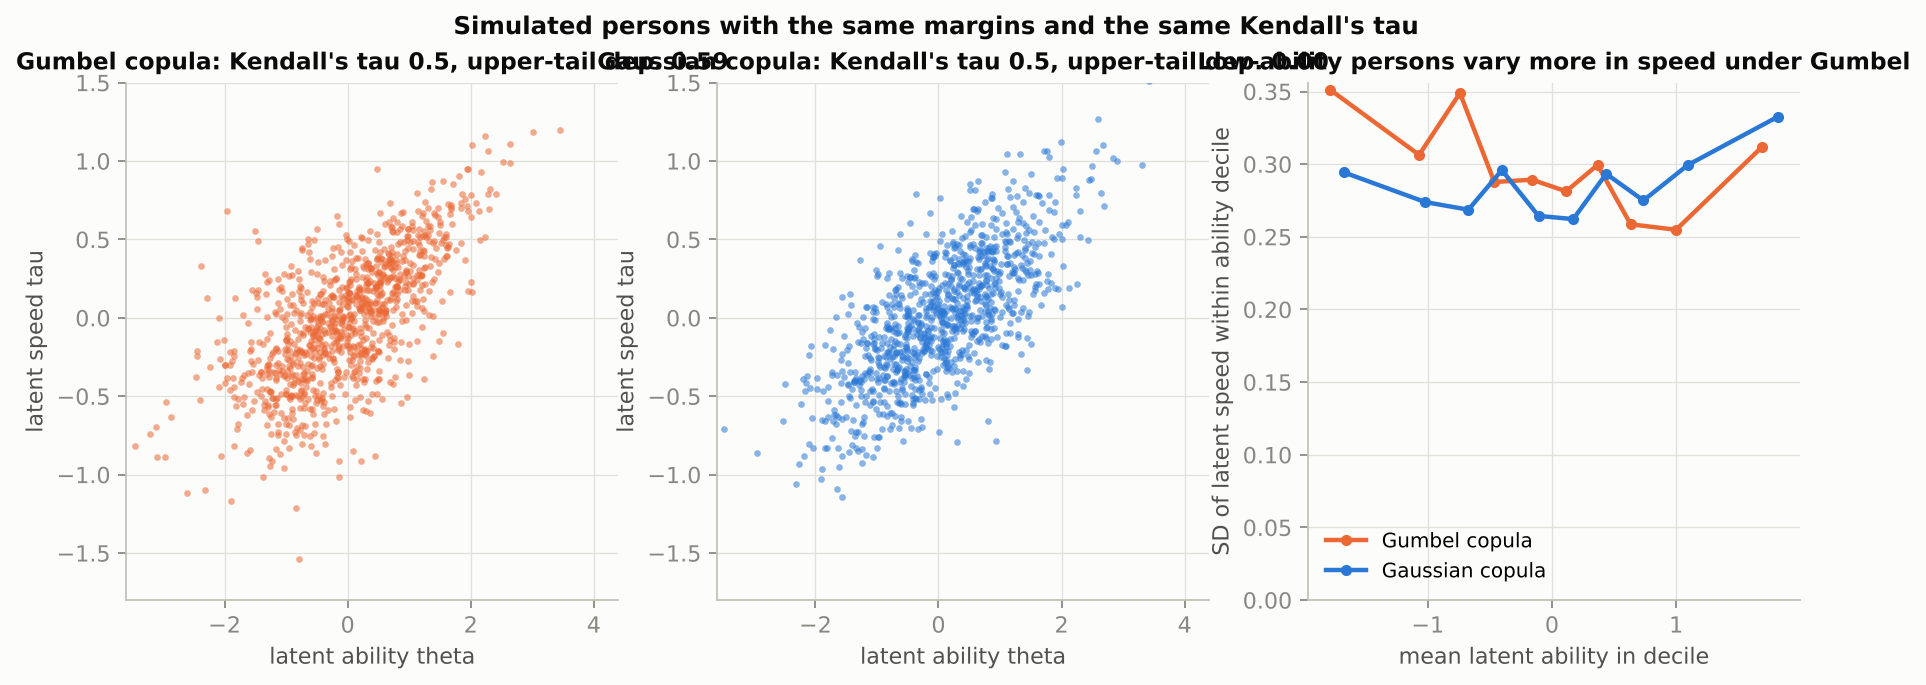
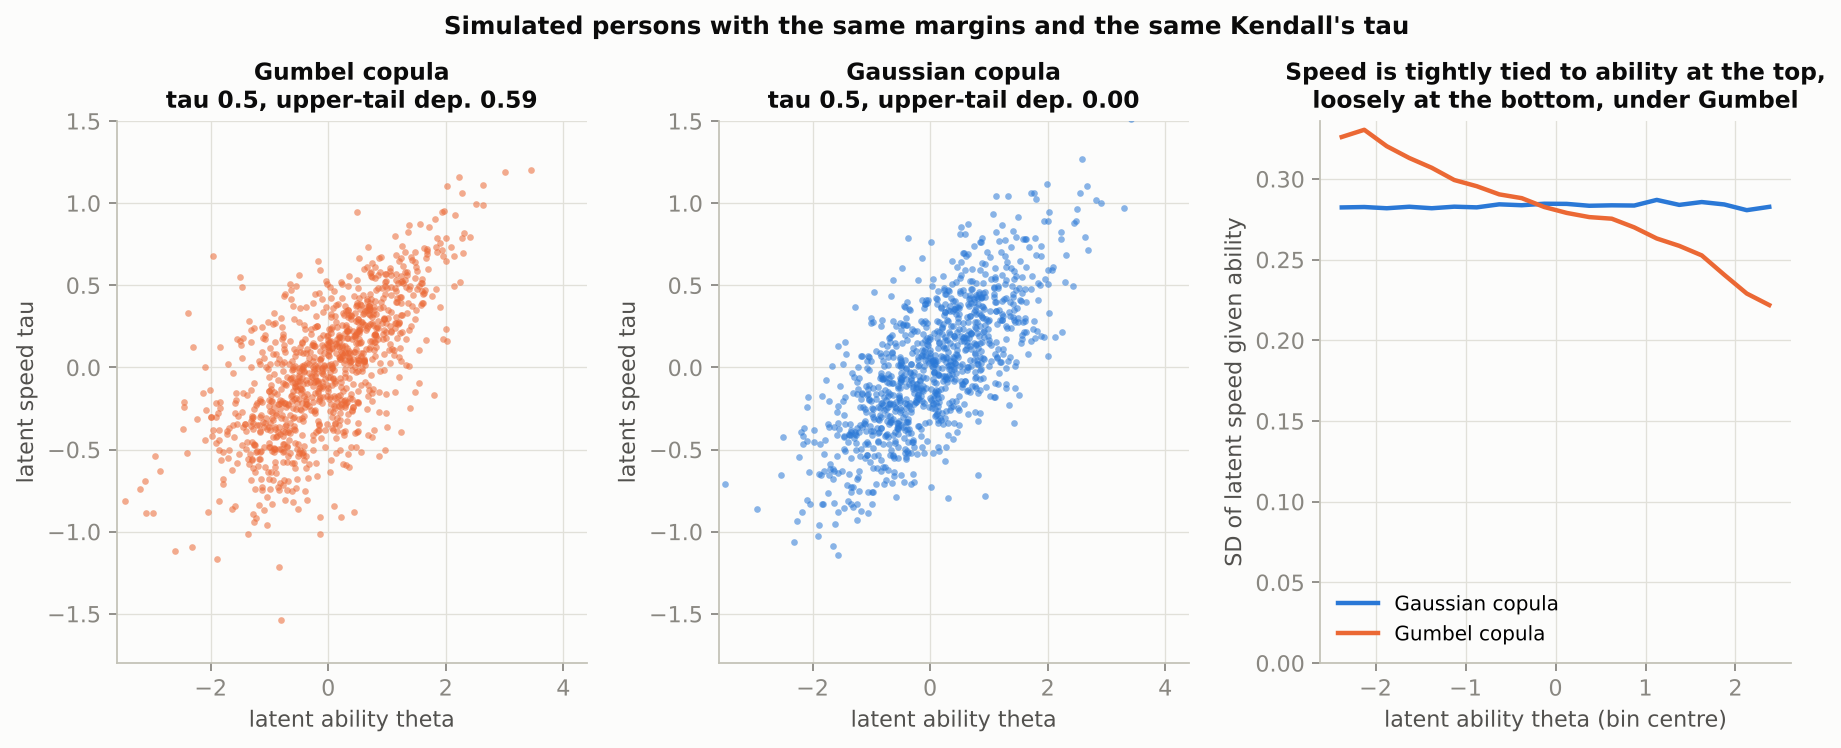
README: Study 1 replication results; regenerate figures with tail-concentration PPC
Claude-Session: https://claude.ai/code/session_01J2gByYfPctSmYiyrrzECov

diff --git a/copula_latent_variable_notes/make_figures.py b/copula_latent_variable_notes/make_figures.py
@@ -64,7 +64,7 @@ def fig_study1_dgp(out_dir, fig_dir, n_show=1000, seed=0):
         ax.scatter(th, ta, s=9, lw=0, color=COLORS[fam], alpha=0.55)
         lam_u = cp.tail_dependence(fam, ktau)[1]
         ax.set_title(f"{'Gumbel' if fam == 'gumbel' else 'Gaussian'} copula\n"
-                     f"Kendall's tau {ktau}, upper-tail dependence {lam_u:.2f}")
+                     f"tau {ktau}, upper-tail dep. {lam_u:.2f}")
         ax.set_xlabel("latent ability theta")
         ax.set_xlim(-3.6, 4.4)
         ax.set_ylim(-1.8, 1.5)

diff --git a/copula_latent_variable_notes/README.md b/copula_latent_variable_notes/README.md
@@ -170,7 +170,49 @@ bottom. Upper-tail dependence makes the top share exceed the bottom share; a
 Gaussian copula makes them equal. Each model is refit to 10 further simulated
 data sets so the comparisons carry standard errors.
 
-RESULTS_STUDY1
+**Results.** The figure is the main data set (seed 0); the table averages
+ten further simulated data sets (mean ± SE across data sets).
+
+![Study 1 results](figures/study1_results.png)
+
+| model | RMSE of ability | lowest third | middle third | highest third | Kendall's tau (true 0.5) | WAIC vs Gaussian (elpd) |
+|---|---|---|---|---|---|---|
+| 2PL only | 0.469 ± 0.010 | 0.482 ± 0.013 | 0.420 ± 0.008 | 0.499 ± 0.017 | | |
+| Gaussian copula | 0.428 ± 0.008 | 0.452 ± 0.012 | 0.393 ± 0.007 | 0.436 ± 0.014 | 0.497 ± 0.007 | 0 |
+| Gumbel copula | 0.423 ± 0.008 | 0.451 ± 0.012 | 0.390 ± 0.007 | 0.424 ± 0.014 | 0.508 ± 0.007 | +5.7 ± 1.9 |
+| Joe copula | 0.429 ± 0.008 | 0.462 ± 0.011 | 0.392 ± 0.007 | 0.428 ± 0.014 | 0.497 ± 0.008 | −1.9 ± 2.9 |
+| Clayton copula | 0.452 ± 0.009 | 0.465 ± 0.014 | 0.405 ± 0.007 | 0.481 ± 0.016 | 0.422 ± 0.009 | −42.2 ± 2.8 |
+
+Three things stand out.
+
+- **Response times are the big win; the copula is a smaller, consistent
+  one.** Using response times at all cuts the ability RMSE from 0.469 to
+  0.428. Replacing the Gaussian link with the (true) Gumbel link cuts it
+  further to 0.423, a paired difference of 0.005 ± 0.001 that favours Gumbel
+  in all ten data sets. The gain sits where the tail dependence is: in the
+  highest-ability third the paired difference is 0.012 ± 0.002, in the lowest
+  third it is zero. Joe, which has the right tail but the wrong shape
+  elsewhere, matches Gaussian overall and beats it only at the top.
+- **Model fit picks the right family.** Per-person WAIC prefers Gumbel over
+  Gaussian by 5.7 ± 1.9 (8 of 10 data sets), over Joe by 7.6 ± 1.7, and over
+  Clayton, the wrong-tail copula, by 48 ± 3. Clayton also pulls the
+  dependence estimate down (0.42) because it cannot place the dependence
+  where the data have it.
+- **The posterior predictive check sees the tail.** In the left panel the
+  Gumbel fit's 90% intervals cover all four observed tail concentrations;
+  the Gaussian fit cannot produce the asymmetry (0.24 of the slowest-scoring
+  10% are also in the slowest 10% for speed, against 0.44 at the top) and
+  misses two of the four. Across the ten data sets the upper-minus-lower
+  asymmetry has a posterior predictive p-value outside (0.05, 0.95) in 8 of
+  10 for the Gaussian fit, 3 of 10 for Gumbel, 7 of 10 for Joe (which
+  overshoots the asymmetry) and 10 of 10 for Clayton.
+
+The Gaussian fit's Kendall's tau is unbiased here (0.497), so in this setting
+the Gaussian model gets the overall dependence right and only the shape wrong.
+MCMC diagnostics were acceptable throughout the eleven data sets: split R-hat
+at most 1.06 on the item and dependence parameters and at most 1.01 on the
+person parameters, with the smallest effective sample size among the global
+parameters about 100 of 2,000 draws.
 
 ## Study 2: a rare binary risk outcome
 
